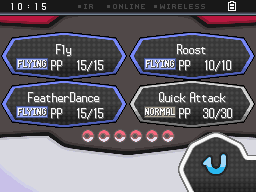
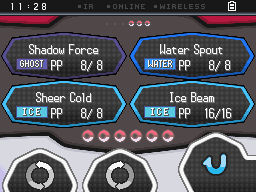
Added rotation battle buttons.

diff --git a/data/black/data.js b/data/black/data.js
@@ -13,6 +13,8 @@ var coords = {
 		"Attack 2":         [128,  31,   255,  79],
 		"Attack 3":         [  0,  80,   127, 127],
 		"Attack 4":         [128,  80,   255, 127],
+		"Rotate Left":      [  0, 151,    79, 191],
+		"Rotate Right":     [ 80, 151,   159, 191],
 		"Cancel":           [175, 143,   255, 191],
 	},
 	"Double battle": {
